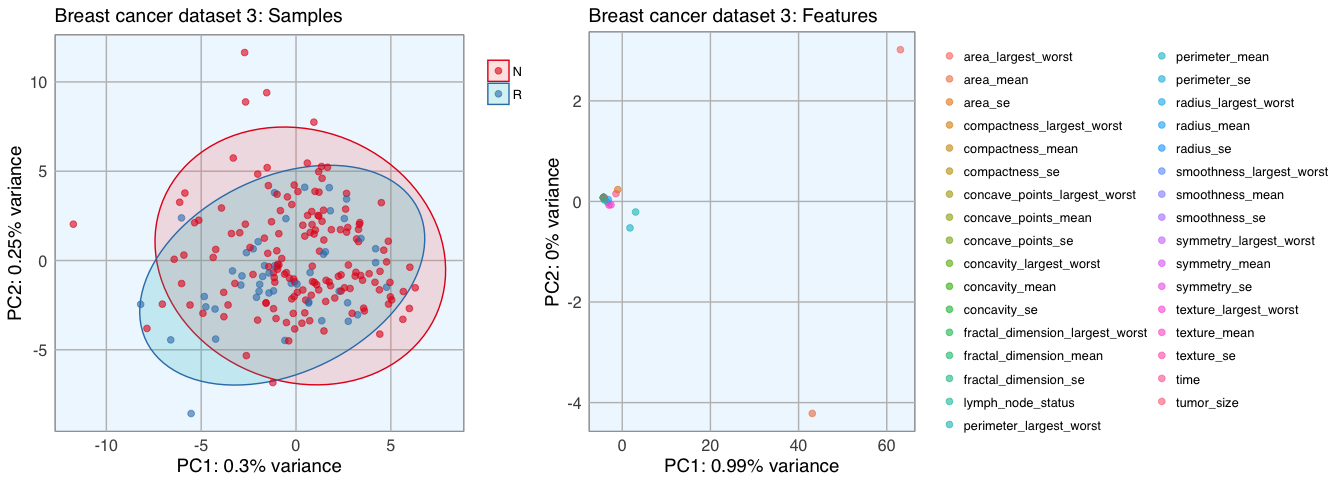
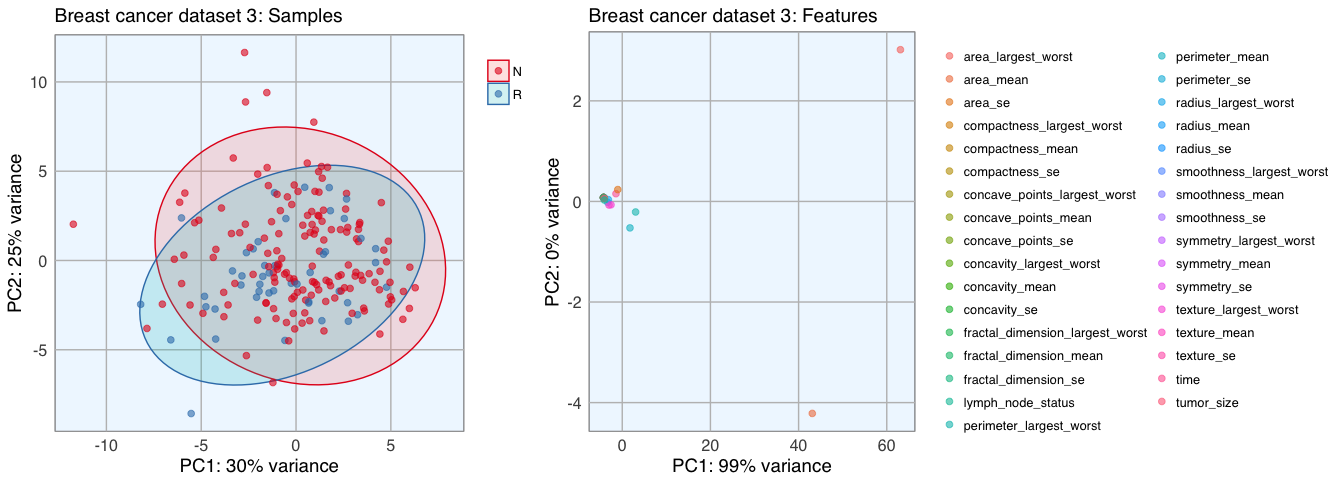
ipdated pca plots

Changed region(s): [[0.0, 0.3125, 0.0312, 0.6562], [0.5, 0.9375, 0.625, 1.0], [0.125, 0.9375, 0.25, 1.0]]

diff --git a/_posts/2017-01-15-rfe_ga_post.md b/_posts/2017-01-15-rfe_ga_post.md
@@ -377,8 +377,8 @@ pca_func <- function(data, groups, title, print_ellipse = TRUE) {
       labs(title = title,
            color = "",
            fill = "",
-           x = paste0("PC1: ", round(pcaOutput$pov[1], digits = 2), "% variance"),
-           y = paste0("PC2: ", round(pcaOutput$pov[2], digits = 2), "% variance"))
+           x = paste0("PC1: ", round(pcaOutput$pov[1], digits = 2) * 100, "% variance"),
+           y = paste0("PC2: ", round(pcaOutput$pov[2], digits = 2) * 100, "% variance"))
     
   } else {
     
@@ -391,8 +391,8 @@ pca_func <- function(data, groups, title, print_ellipse = TRUE) {
         labs(title = title,
              color = "",
              fill = "",
-             x = paste0("PC1: ", round(pcaOutput$pov[1], digits = 2), "% variance"),
-             y = paste0("PC2: ", round(pcaOutput$pov[2], digits = 2), "% variance"))
+             x = paste0("PC1: ", round(pcaOutput$pov[1], digits = 2) * 100, "% variance"),
+             y = paste0("PC2: ", round(pcaOutput$pov[2], digits = 2) * 100, "% variance"))
       
     } else {
       
@@ -402,8 +402,8 @@ pca_func <- function(data, groups, title, print_ellipse = TRUE) {
         labs(title = title,
              color = "",
              fill = "",
-             x = paste0("PC1: ", round(pcaOutput$pov[1], digits = 2), "% variance"),
-             y = paste0("PC2: ", round(pcaOutput$pov[2], digits = 2), "% variance"))
+             x = paste0("PC1: ", round(pcaOutput$pov[1], digits = 2) * 100, "% variance"),
+             y = paste0("PC2: ", round(pcaOutput$pov[2], digits = 2) * 100, "% variance"))
       
     }
   }
